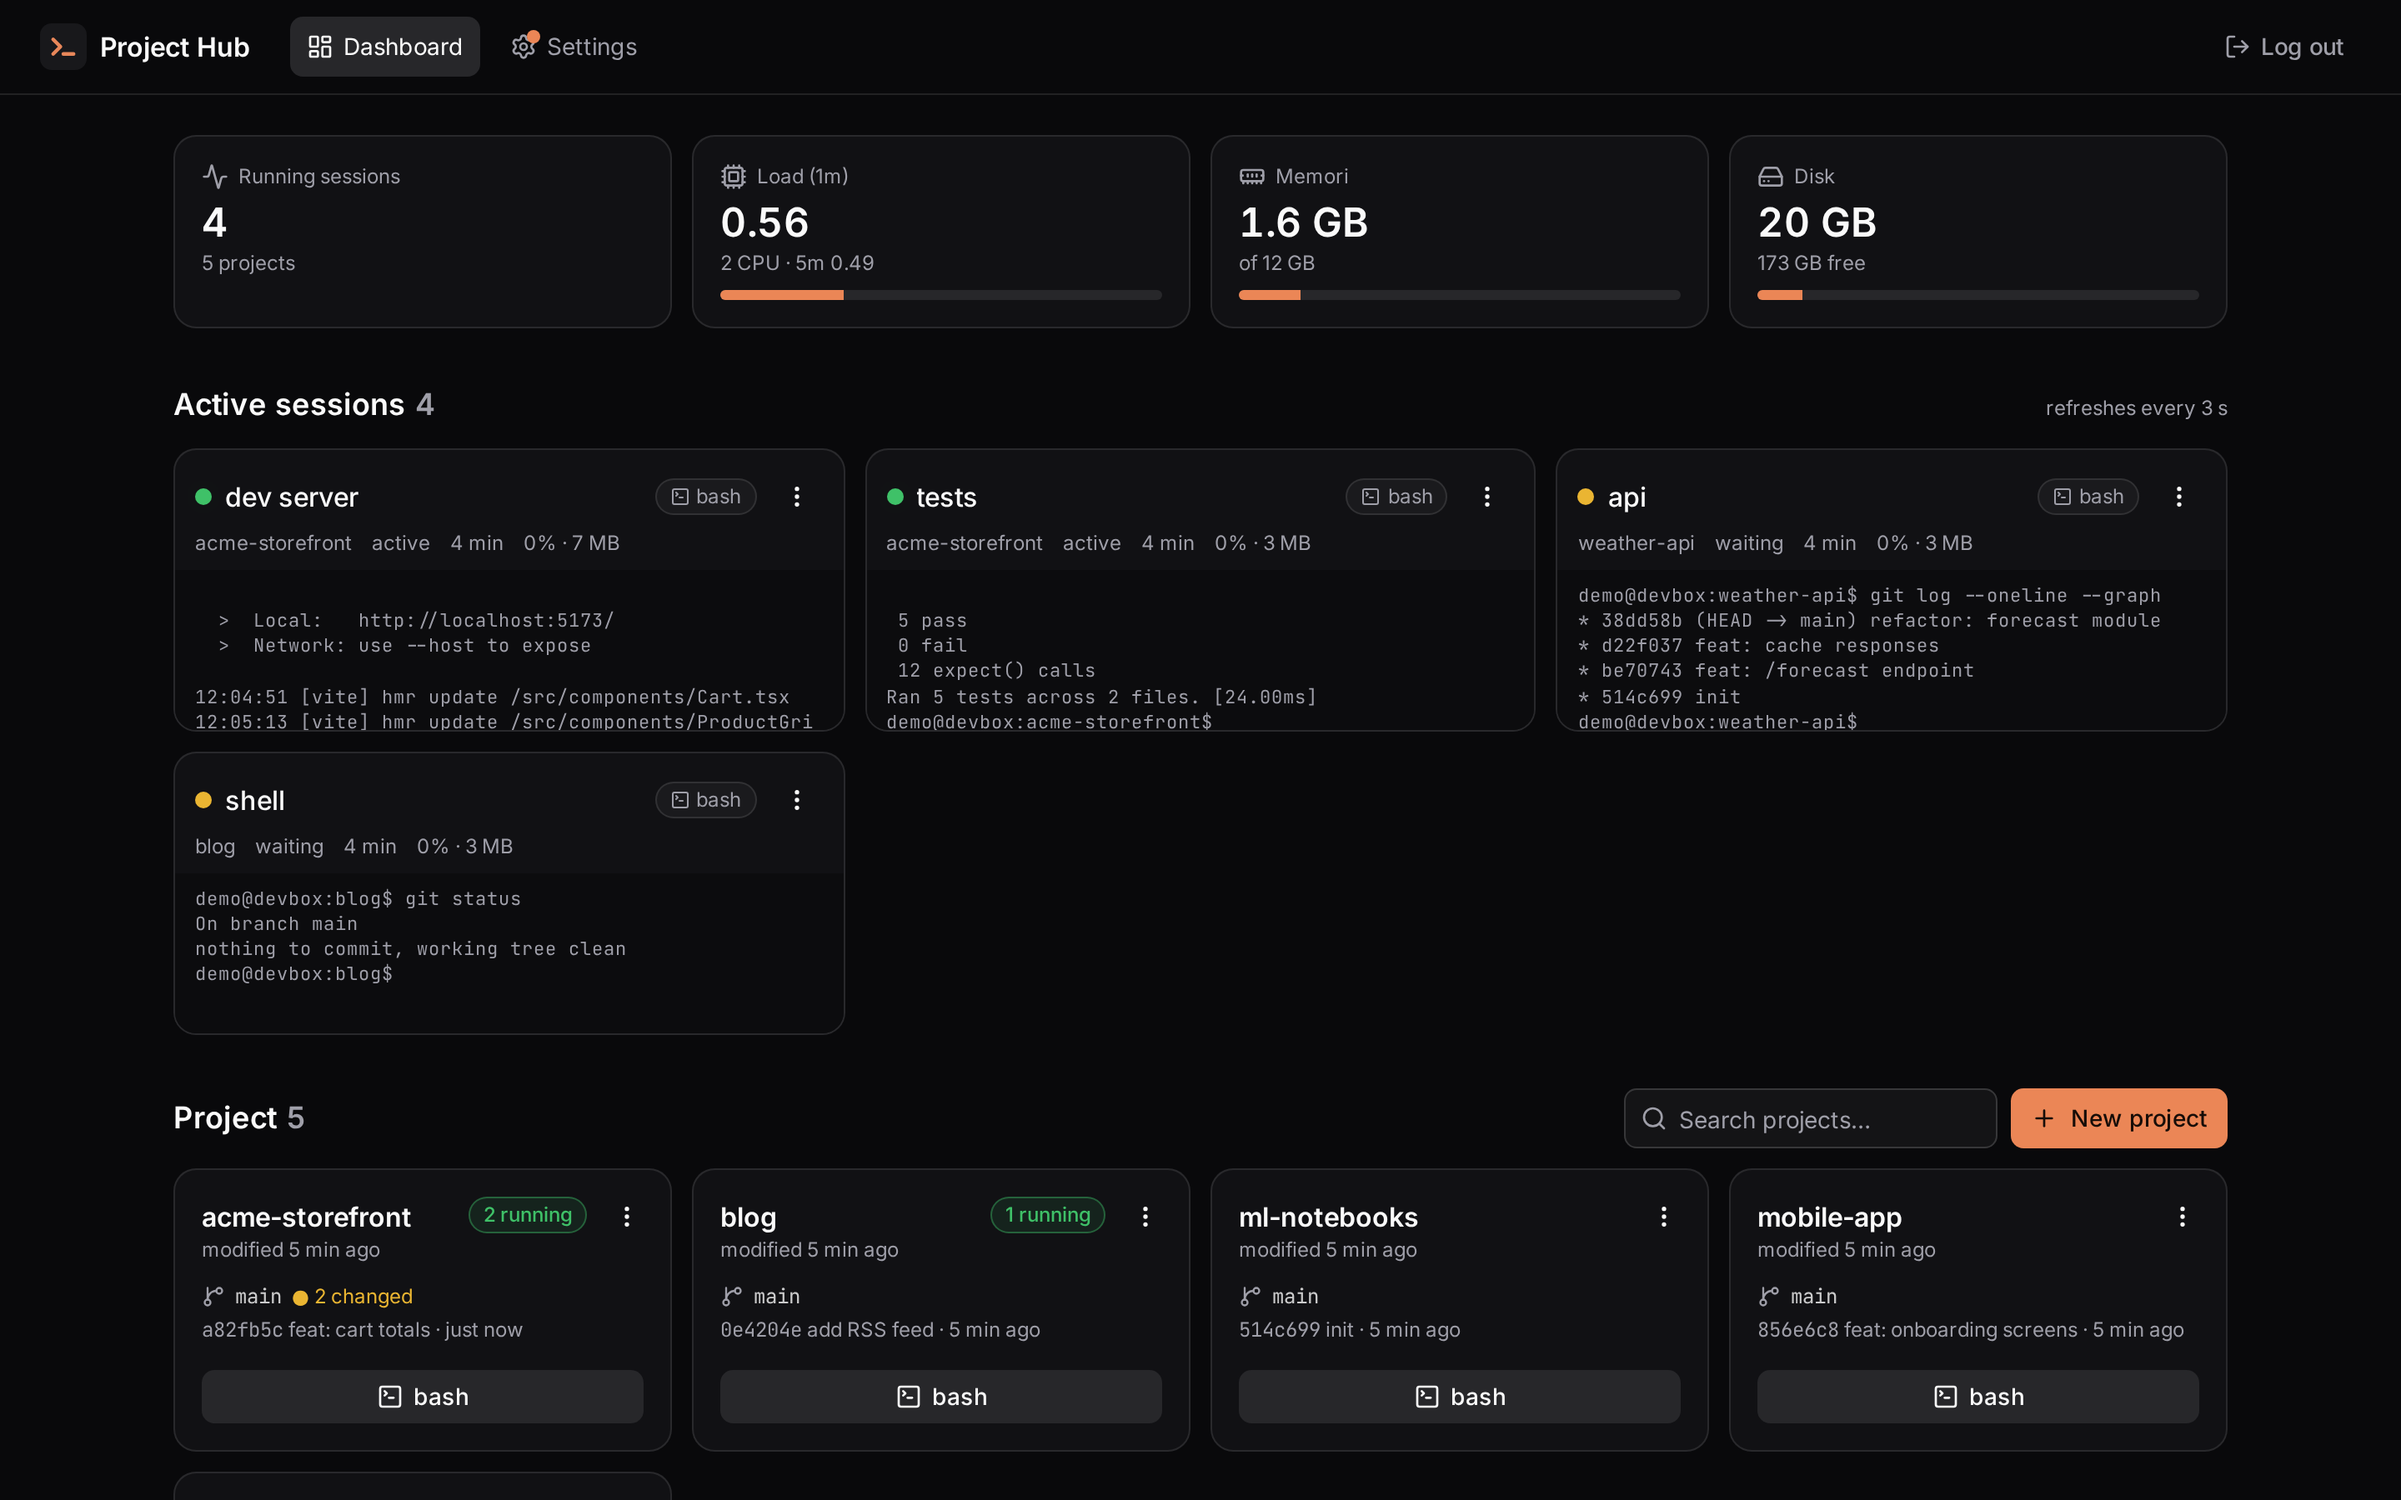
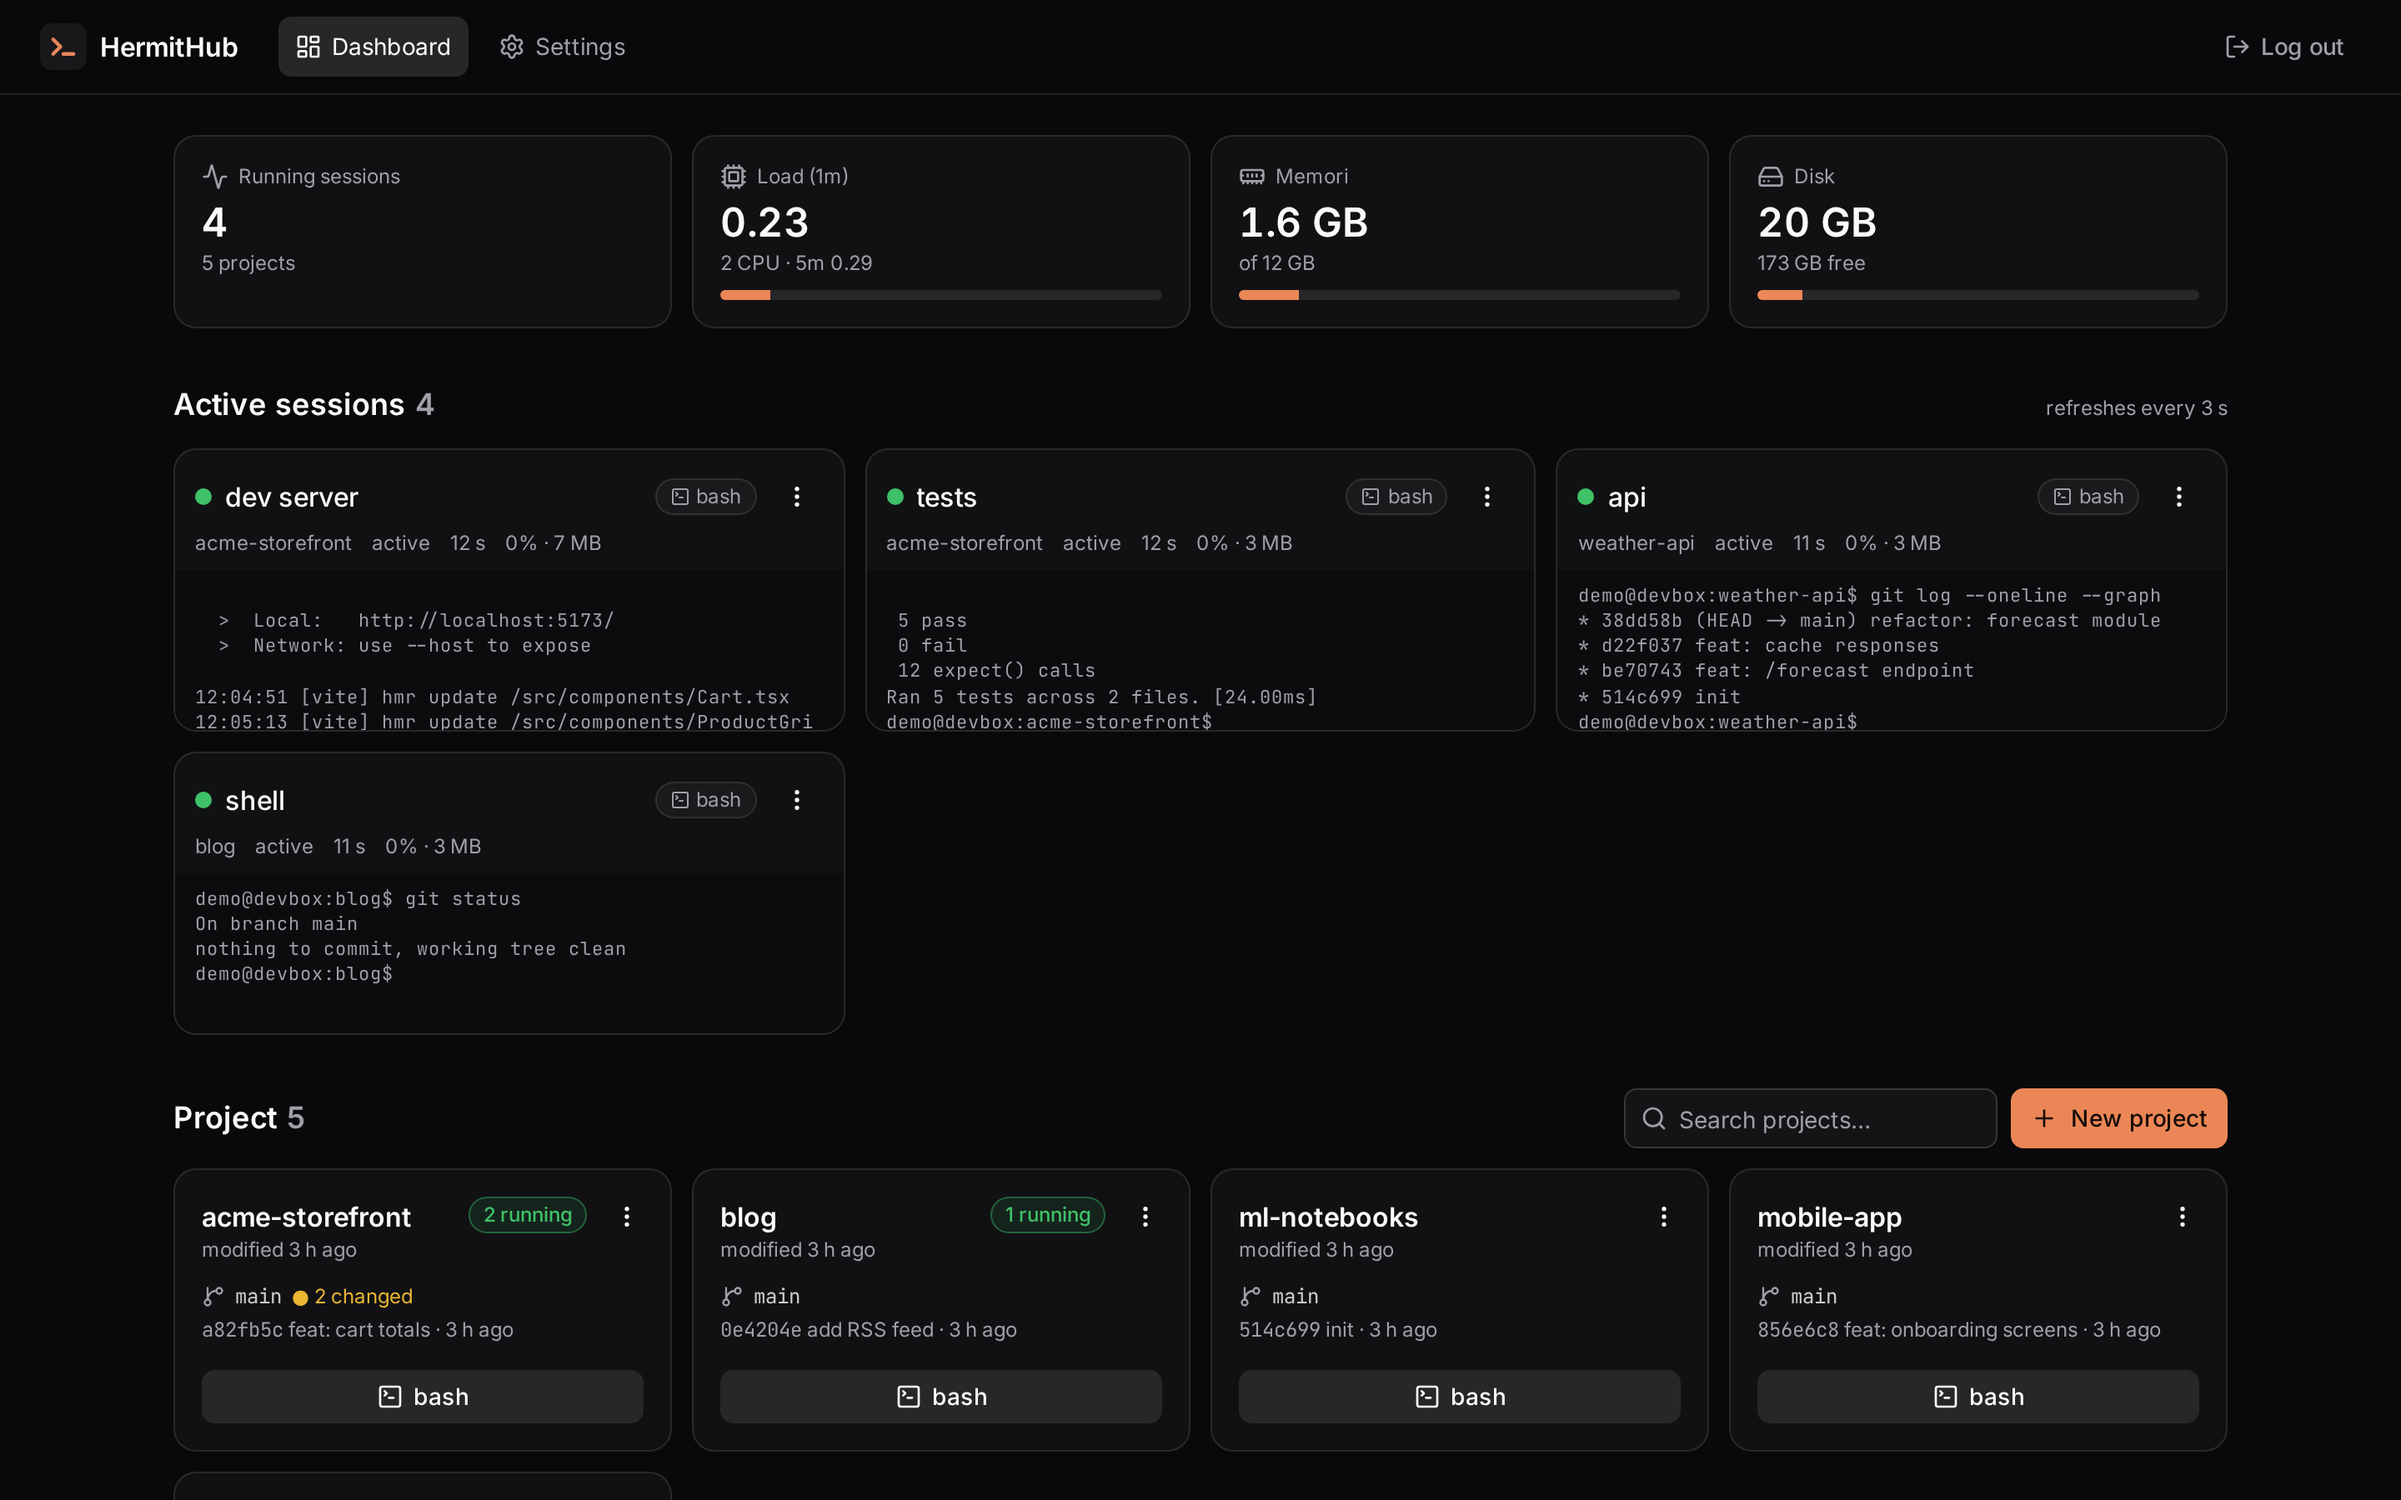
chore(site): rename to HermitHub, deploy to hermithub.pages.dev

diff --git a/site/scripts/sync-docs.ts b/site/scripts/sync-docs.ts
@@ -3,7 +3,7 @@
 import { readdir, mkdir, rm } from "node:fs/promises";
 import { join } from "node:path";
 
-const REPO = "https://github.com/suriyadi15/project-hub/blob/main";
+const REPO = "https://github.com/suriyadi15/hermithub/blob/main";
 const root = join(import.meta.dir, "../..");
 const src = join(root, "docs");
 const out = join(import.meta.dir, "../src/content/docs/docs");

diff --git a/docs/development.md b/docs/development.md
@@ -84,7 +84,7 @@ operating commands change, update it (and `references/troubleshooting.md`), then
 ## Website
 
 `site/` is the website (landing page and docs), built with Astro Starlight and deployed to Cloudflare Pages at
-https://projecthubapp.pages.dev. The docs pages are generated from `docs/*.md` on every build
+https://hermithub.pages.dev. The docs pages are generated from `docs/*.md` on every build
 (`site/scripts/sync-docs.ts`), so edit the files in `docs/`, not the generated copies. Links between docs files
 (`installation.md`) become site links, and links outside `docs/` point to GitHub.
 
@@ -101,11 +101,11 @@ a throwaway instance with demo projects, never from real data.
 The `Website` workflow builds the site on pull requests that touch `docs/` or `site/`, and deploys it on pushes to
 `main`. One-time setup:
 
-1. In Cloudflare: **Workers & Pages → Create → Pages → Direct Upload**, name the project `projecthubapp`.
+1. In Cloudflare: **Workers & Pages → Create → Pages → Direct Upload**, name the project `hermithub`.
 2. Create an API token with the **Cloudflare Pages: Edit** permission and note your account ID.
 3. Add them as repository secrets `CLOUDFLARE_API_TOKEN` and `CLOUDFLARE_ACCOUNT_ID`.
 
-To deploy by hand: `bun run build && bunx wrangler pages deploy dist --project-name=projecthubapp`.
+To deploy by hand: `bun run build && bunx wrangler pages deploy dist --project-name=hermithub`.
 
 ## Releasing
 

diff --git a/README.md b/README.md
@@ -7,7 +7,7 @@ the tab: sessions keep running on the server.
 
 Agents, their logins, GitHub access and git settings are all set up from the dashboard.
 
-**Website and docs: [projecthubapp.pages.dev](https://projecthubapp.pages.dev)**
+**Website and docs: [hermithub.pages.dev](https://hermithub.pages.dev)**
 
 ## Features
 
